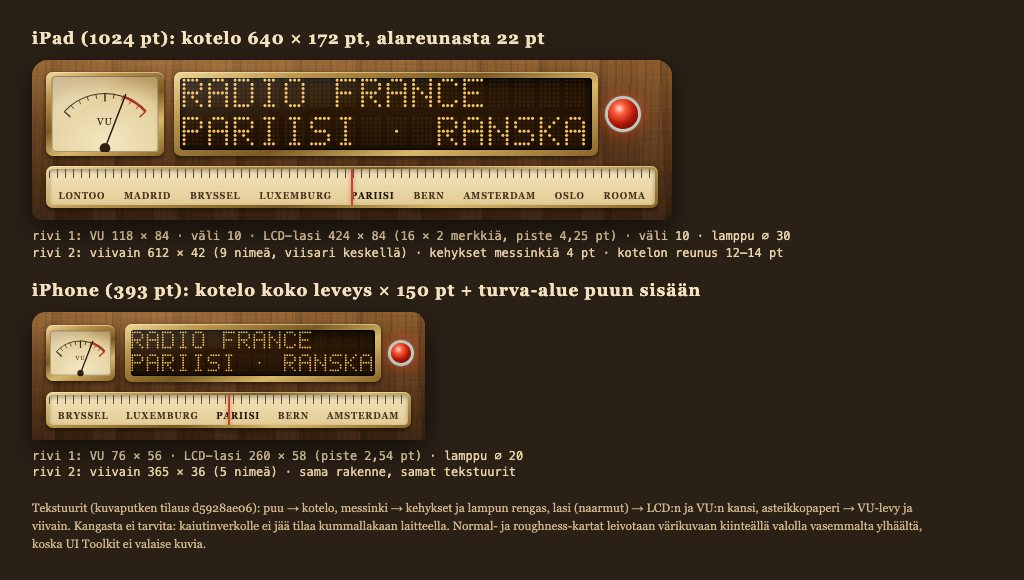
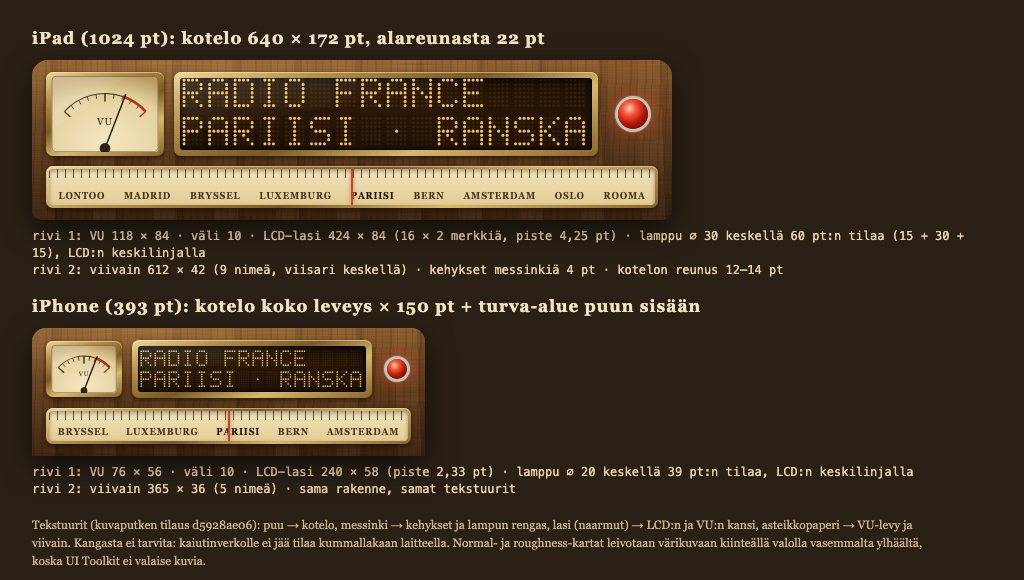
Radiopaneeli: lamppu keskelle LCD:n oikealle jäävää tilaa (omistaja 24.9. klo 20.0x), iPhonen LCD 240 pt, pintojen koekuva

Changed region(s): [[0.0312, 0.3724, 0.9375, 0.9931], [0.5625, 0.1552, 0.6562, 0.2483]]

diff --git a/docs/raportit/kaappaukset/radiouudistus-20260924/lahde/paneeli.js b/docs/raportit/kaappaukset/radiouudistus-20260924/lahde/paneeli.js
@@ -66,7 +66,7 @@ export function teePaneeli({ leveys, vuL, vuK, lcdL, lcdK, lamppu, asteikkoK, ri
     <div class="rivi">
       <div class="kehys vu" style="width:${vuL}px;height:${vuK}px">${vuMittari(vuL, vuK, vuTaso)}</div>
       <div class="kehys lcd" style="width:${lcdL + 16}px;height:${lcdK}px"><div class="lasi">${lcdSvg}</div></div>
-      <div class="lamppu" style="width:${lamppu}px;height:${lamppu}px"></div>
+      <div class="lamppualue"><div class="lamppu" style="width:${lamppu}px;height:${lamppu}px"></div></div>
     </div>
     <div class="kehys asteikko" style="height:${asteikkoK}px">
       <div class="paperi"><div class="viivat"></div><div class="nimet">${nimet}</div><div class="viisari"></div></div>
@@ -95,6 +95,7 @@ export const TYYLI = `
   background:radial-gradient(120% 90% at 50% 40%,#2c1806,#170b02);
   box-shadow:0 0 0 1px #000 inset,0 3px 10px rgba(0,0,0,.8) inset;position:relative;overflow:hidden}
 .lasi::after{content:"";position:absolute;inset:0;background:linear-gradient(170deg,rgba(255,255,255,.16),rgba(255,255,255,.02) 38%,transparent 39%)}
+.lamppualue{flex:1;align-self:stretch;display:flex;align-items:center;justify-content:center}
 .lamppu{flex:none;border-radius:50%;
   background:radial-gradient(circle at 38% 32%,#ffd6c8 0,#ff5a3a 22%,#b0180a 55%,#4a0602 100%);
   box-shadow:0 0 0 3px #c9c3b6,0 0 0 4px #6d665a,0 0 14px 4px rgba(255,60,30,.55)}

diff --git a/docs/raportit/linssi-radiouudistus-suunnitelma-20260924.md b/docs/raportit/linssi-radiouudistus-suunnitelma-20260924.md
@@ -32,13 +32,19 @@ proseduraalisia sijaisia, kunnes kuvaputki toimittaa tekstuurit (tilaus d5928ae0
 
 ![Paneeli iPadilla ja iPhonella, mitat](kaappaukset/radiouudistus-20260924/2-paneeli-mitat.jpg)
 
-**iPad (1024 pt):** kotelo on 640 × 172 pt, keskellä ja 22 pt alareunasta.
-- Rivi 1: VU 118 × 84, väli 10 pt, LCD-lasi 424 × 84 (16 × 2 merkkiä, pisteväli 4,25 pt), väli 10 pt ja lamppu ⌀ 30.
+**Lampun paikka** (omistaja 24.9. klo 20.0x, sitova): lamppu on keskellä LCD:n oikean reunan ja kotelon
+sisäreunan välistä tilaa sekä vaaka- että pystysuunnassa, LCD:n rivien keskilinjalla. UI:ssa lampun
+säiliö täyttää jäljelle jäävän tilan (flex-grow 1, align-self stretch), ja lamppu keskitetään sen sisään.
+
+**iPad (1024 pt):** kotelo on 640 × 172 pt, keskellä ja 22 pt alareunasta. Sisäleveys on 612 pt (reunus 14 pt).
+- Rivi 1: VU 118 × 84, väli 10 pt, LCD-lasi 424 × 84 (16 × 2 merkkiä, pisteväli 4,25 pt) ja lamppu ⌀ 30
+  keskellä jäljelle jäävää 60 pt:n tilaa (15 + 30 + 15).
 - Rivi 2: viivain 612 × 42, jossa 9 nimeä ja punainen viisari keskellä.
 - Messinkikehys on 4 pt jokaisen osan ympärillä, ja kotelon reunus on 12–14 pt.
 
 **iPhone (393 pt):** kotelo on koko ruudun levyinen ja 150 pt korkea, ja turva-alue jää puun sisään.
-- Rivi 1: VU 76 × 56, LCD-lasi 260 × 58 (pisteväli 2,54 pt) ja lamppu ⌀ 20.
+- Rivi 1: VU 76 × 56, väli 10 pt, LCD-lasi 240 × 58 (pisteväli 2,33 pt) ja lamppu ⌀ 20 keskellä jäljelle
+  jäävää 39 pt:n tilaa. Aiempi LCD (260 pt) ei mahtunut sisäleveyteen 365 pt lampun kanssa.
 - Rivi 2: viivain 365 × 36, jossa on 5 nimeä.
 - 16 merkin näyttö mahtuu, kun VU pienenee. Nykyinen iPhone-asettelu, jossa VU on omalla rivillään, poistuu.
 
@@ -50,6 +56,8 @@ proseduraalisia sijaisia, kunnes kuvaputki toimittaa tekstuurit (tilaus d5928ae0
 | Messinki | kehykset ja lampun rengas | 9-slice 128 × 128 |
 | Lasi (naarmut) | LCD:n ja VU:n kansi | päällyskuva 512 × 128 (heijastus ja naarmut alfana) |
 | Asteikkopaperi | VU-levy ja viivain | 256 × 180 ja toistuva 512 × 64 |
+
+![Paneeli kuvaputken tekstuureilla (ambientCG CC0), leivottu radiopinnat.py:llä](kaappaukset/radiouudistus-20260924/7-pinnat-koekuva.jpg)
 
 Kangasta ei tarvita, koska kaiutinverkolle ei jää tilaa kummallakaan laitteella. UI Toolkit ei valaise
 kuvia, joten normal- ja roughness-kartat leivotaan värikuvaan kiinteällä valolla vasemmalta ylhäältä
